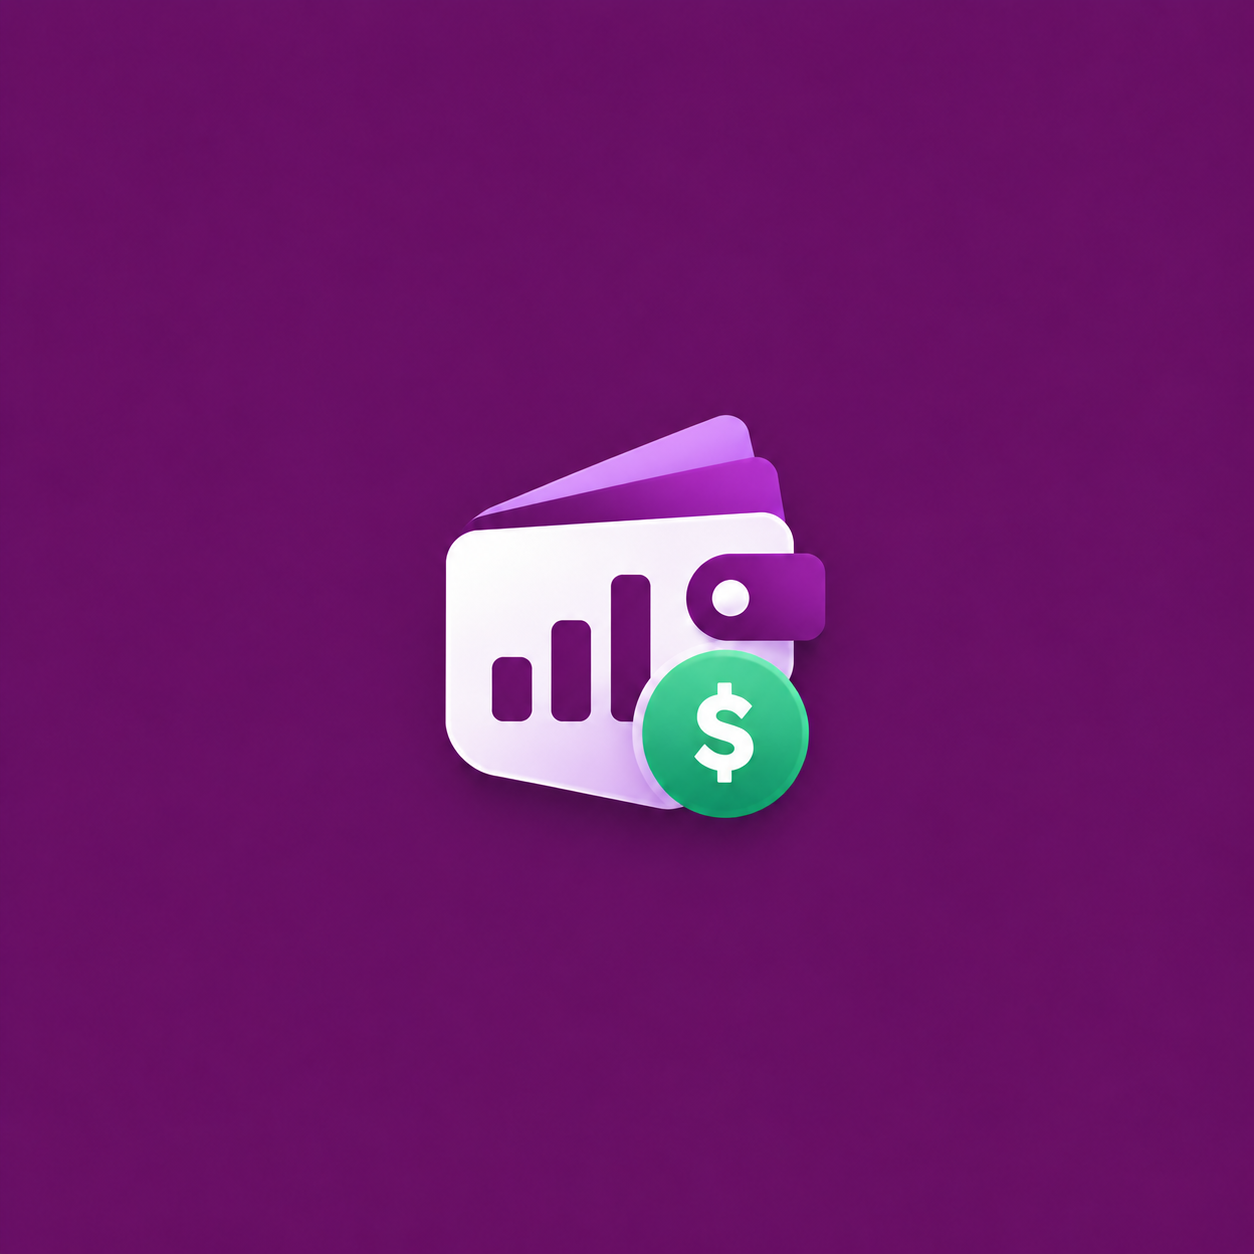
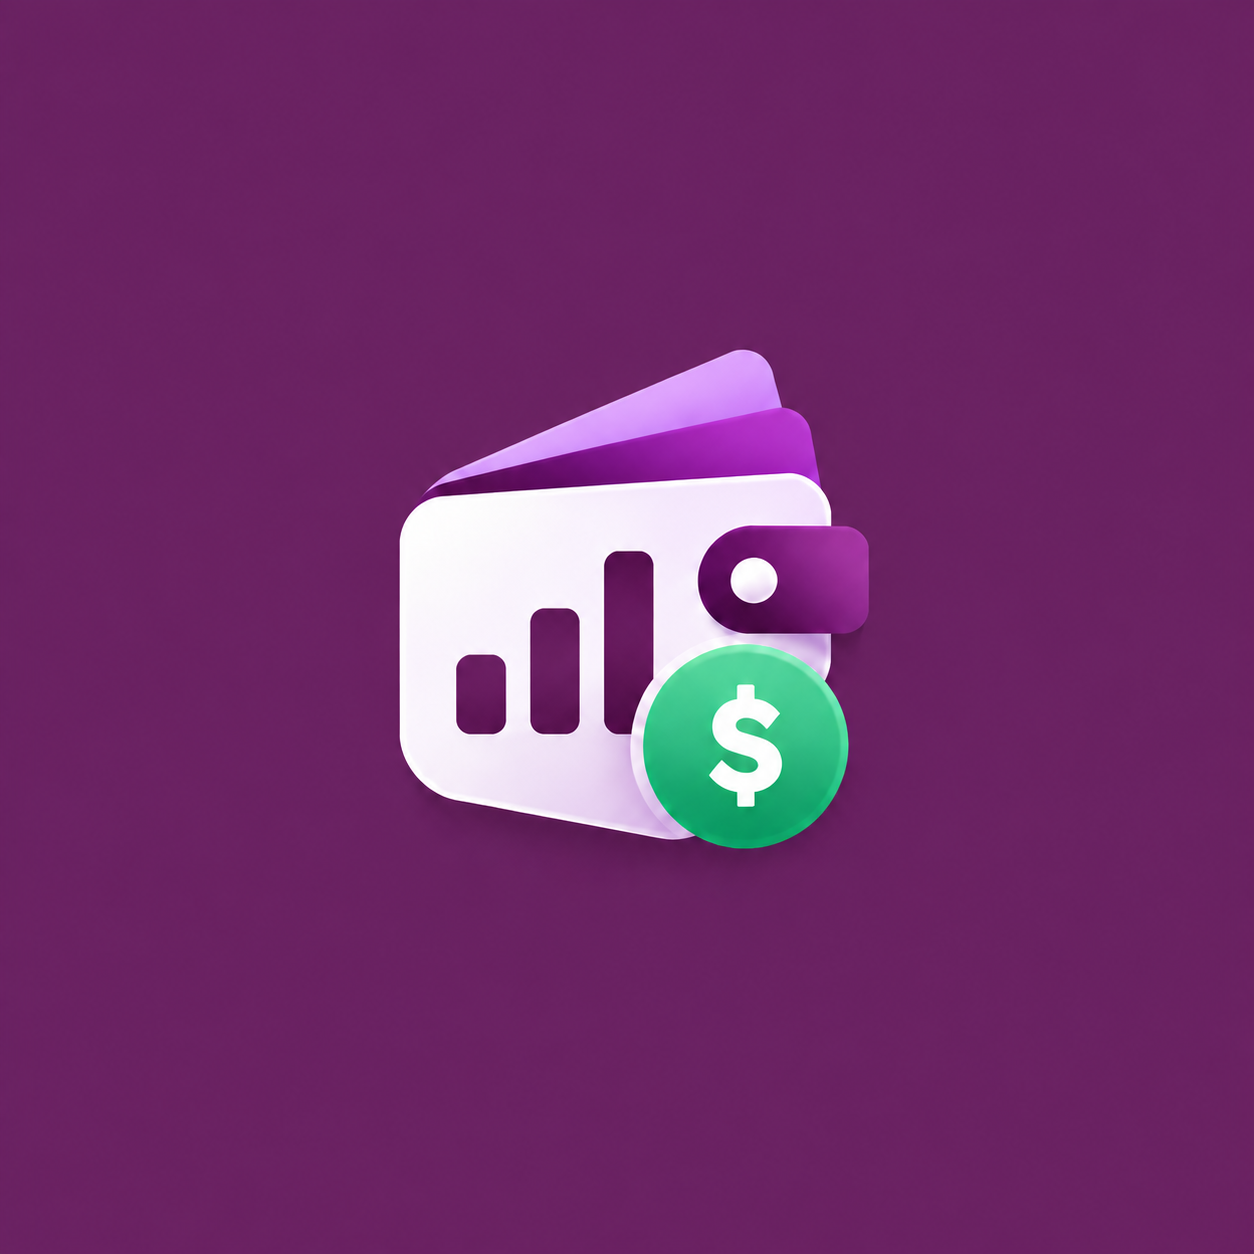
fix splash screen and api error

Changed region(s): [[0.311, 0.2799, 0.7153, 0.6842]]

diff --git a/src/notifications/chatPush.ts b/src/notifications/chatPush.ts
@@ -19,19 +19,19 @@ export function getActiveChatTopic() {
 
 export function configureChatNotificationHandler() {
   try {
-  Notifications.setNotificationHandler({
-    handleNotification: async (notification) => {
-      const data = notification.request.content.data as { topicId?: string };
-      const suppress = Boolean(data?.topicId && data.topicId === activeTopicId);
-      return {
-        shouldShowAlert: !suppress,
-        shouldShowBanner: !suppress,
-        shouldShowList: !suppress,
-        shouldPlaySound: !suppress,
-        shouldSetBadge: false,
-      };
-    },
-  });
+    Notifications.setNotificationHandler({
+      handleNotification: async (notification) => {
+        const data = notification.request.content.data as { topicId?: string };
+        const suppress = Boolean(data?.topicId && data.topicId === activeTopicId);
+        return {
+          shouldShowAlert: !suppress,
+          shouldShowBanner: !suppress,
+          shouldShowList: !suppress,
+          shouldPlaySound: !suppress,
+          shouldSetBadge: false,
+        };
+      },
+    });
   } catch {
     // Expo Go 57 Android: brak ExpoTopicSubscriptionModule
   }
@@ -50,15 +50,15 @@ async function ensureAndroidChannel() {
 export async function registerChatPushToken() {
   if (Platform.OS === "web") return;
   try {
-  await ensureAndroidChannel();
-  const permission = await Notifications.requestPermissionsAsync();
-  if (permission.status !== "granted") return;
-  const projectId =
-    Constants.expoConfig?.extra?.eas?.projectId ?? Constants.easConfig?.projectId;
-  if (!projectId) return;
-  const token = (await Notifications.getExpoPushTokenAsync({ projectId })).data;
-  await SecureStore.setItemAsync(PUSH_TOKEN_KEY, token);
-  await api.put("/me/push-token", { token });
+    await ensureAndroidChannel();
+    const permission = await Notifications.requestPermissionsAsync();
+    if (permission.status !== "granted") return;
+    const projectId =
+      Constants.expoConfig?.extra?.eas?.projectId ?? Constants.easConfig?.projectId;
+    if (!projectId) return;
+    const token = (await Notifications.getExpoPushTokenAsync({ projectId })).data;
+    await SecureStore.setItemAsync(PUSH_TOKEN_KEY, token);
+    await api.put("/me/push-token", { token });
   } catch {
     // Expo Go / brak natywnego pusha
   }

diff --git a/src/navigators/Root.tsx b/src/navigators/Root.tsx
@@ -1,9 +1,9 @@
-import React from "react";
-import { ActivityIndicator, StyleSheet, View } from "react-native";
+import React, { useEffect } from "react";
 import { useNavigation } from "@react-navigation/native";
 import { createNativeStackNavigator } from "@react-navigation/native-stack";
+import * as SplashScreen from "expo-splash-screen";
+import LoadingScreen from "../components/LoadingScreen";
 import { useAuth } from "../contexts/AuthContext";
-import { useAccent } from "../contexts/ThemeContext";
 import { useProfile } from "../contexts/ProfileContext";
 import AuthScreen from "../screens/Auth/Index";
 import OnboardingScreen from "../screens/Onboarding/Index";
@@ -19,14 +19,14 @@ function OnboardingRoute() {
 const RootNavigator = () => {
   const { isReady: authReady } = useAuth();
   const { isReady, profile } = useProfile();
-  const { accent } = useAccent();
+  const booting = !authReady || !isReady;
 
-  if (!authReady || !isReady) {
-    return (
-      <View style={styles.loading}>
-        <ActivityIndicator size="large" color={accent} />
-      </View>
-    );
+  useEffect(() => {
+    if (!booting) void SplashScreen.hideAsync().catch(() => undefined);
+  }, [booting]);
+
+  if (booting) {
+    return <LoadingScreen />;
   }
 
   return (
@@ -51,14 +51,5 @@ const RootNavigator = () => {
     </Stack.Navigator>
   );
 };
-
-const styles = StyleSheet.create({
-  loading: {
-    flex: 1,
-    backgroundColor: "#fff",
-    alignItems: "center",
-    justifyContent: "center",
-  },
-});
 
 export default RootNavigator;

diff --git a/src/components/LoadingScreen.tsx b/src/components/LoadingScreen.tsx
@@ -1,0 +1,51 @@
+import React, { useEffect } from "react";
+import { ActivityIndicator, Image, StatusBar, StyleSheet, Text, View } from "react-native";
+import * as SplashScreen from "expo-splash-screen";
+
+export default function LoadingScreen() {
+  useEffect(() => {
+    void SplashScreen.hideAsync().catch(() => undefined);
+  }, []);
+
+  return (
+    <View style={styles.root}>
+      <StatusBar barStyle="light-content" backgroundColor="#702963" />
+      <Image source={require("../../assets/icon.png")} style={styles.mark} resizeMode="contain" />
+      <Text style={styles.title}>Budget</Text>
+      <Text style={styles.subtitle}>Planner</Text>
+      <ActivityIndicator size="large" color="#ffffff" style={styles.spinner} />
+    </View>
+  );
+}
+
+const styles = StyleSheet.create({
+  root: {
+    flex: 1,
+    backgroundColor: "#702963",
+    alignItems: "center",
+    justifyContent: "center",
+    paddingHorizontal: 32,
+  },
+  mark: {
+    width: 168,
+    height: 168,
+    marginBottom: 8,
+  },
+  title: {
+    fontFamily: "MontserratSemiBold",
+    fontSize: 40,
+    color: "#ffffff",
+    letterSpacing: 0.4,
+    lineHeight: 46,
+  },
+  subtitle: {
+    fontFamily: "PoppinsRegular",
+    fontSize: 28,
+    color: "#e3c7e0",
+    marginTop: -2,
+    marginBottom: 28,
+  },
+  spinner: {
+    marginTop: 8,
+  },
+});

diff --git a/app.config.js b/app.config.js
@@ -12,6 +12,9 @@ function resolveGoogleServicesFile() {
     fs.writeFileSync(dest, contents);
     return dest;
   }
+  // `eas build` ewaluuje config lokalnie; gitignore'owany plik nie wpadnie do archiwum.
+  // Na builderze jest sekret GOOGLE_SERVICES_JSON (typ file).
+  if (process.env.EAS_BUILD === "true") return undefined;
   const local = path.join(__dirname, "google-services.json");
   return fs.existsSync(local) ? local : undefined;
 }

diff --git a/index.ts b/index.ts
@@ -1,9 +1,11 @@
 import 'react-native-gesture-handler';
 import { registerRootComponent } from 'expo';
+import * as SplashScreen from 'expo-splash-screen';
 import { configureChatNotificationHandler } from './src/notifications/chatPush';
 
 import App from './App';
 
+void SplashScreen.preventAutoHideAsync();
 configureChatNotificationHandler();
 
 // registerRootComponent calls AppRegistry.registerComponent('main', () => App);

diff --git a/server/src/index.ts b/server/src/index.ts
@@ -44,7 +44,7 @@ async function main() {
   const app = express();
   const here = path.dirname(fileURLToPath(import.meta.url));
   app.set("trust proxy", 1);
-  app.engine("ejs", ejs.__express);
+  app.engine("ejs", ejs.renderFile);
   app.set("view engine", "ejs");
   app.set("views", path.join(here, "../views"));
   app.use(
